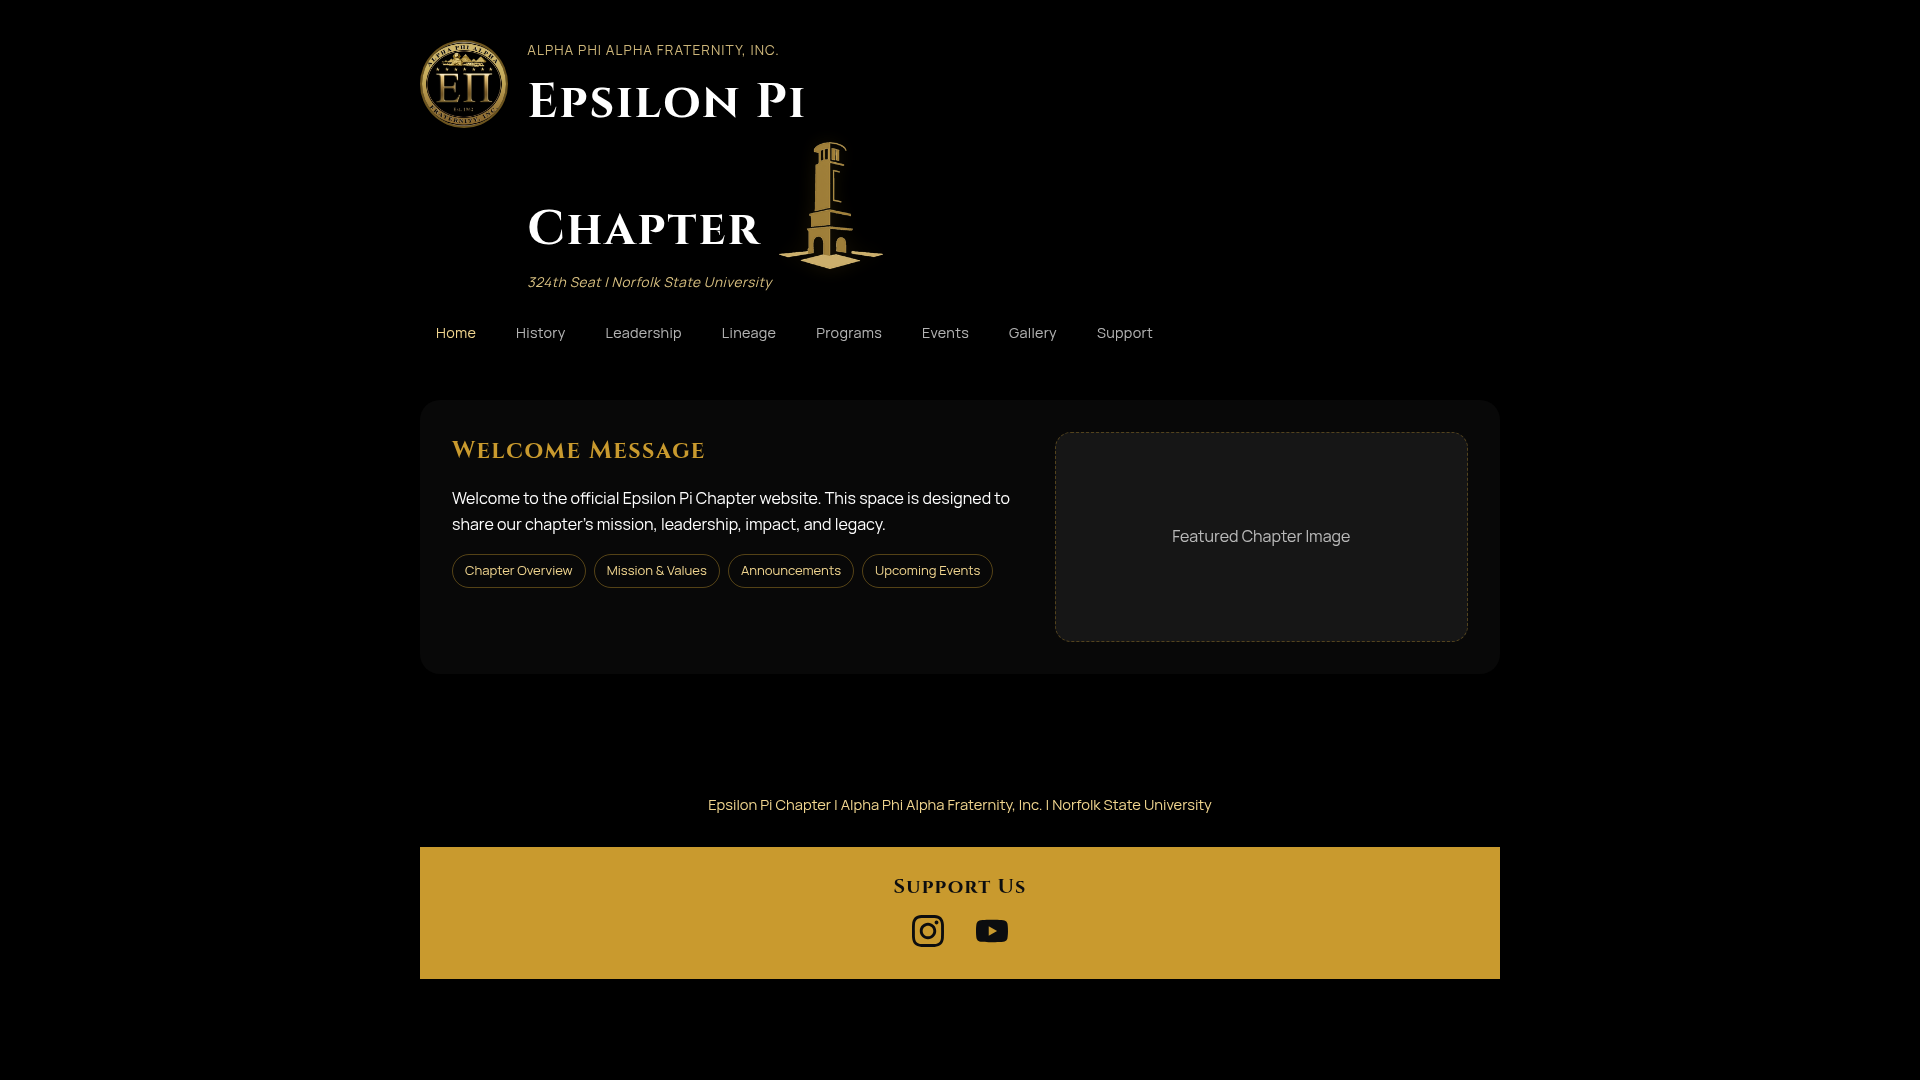
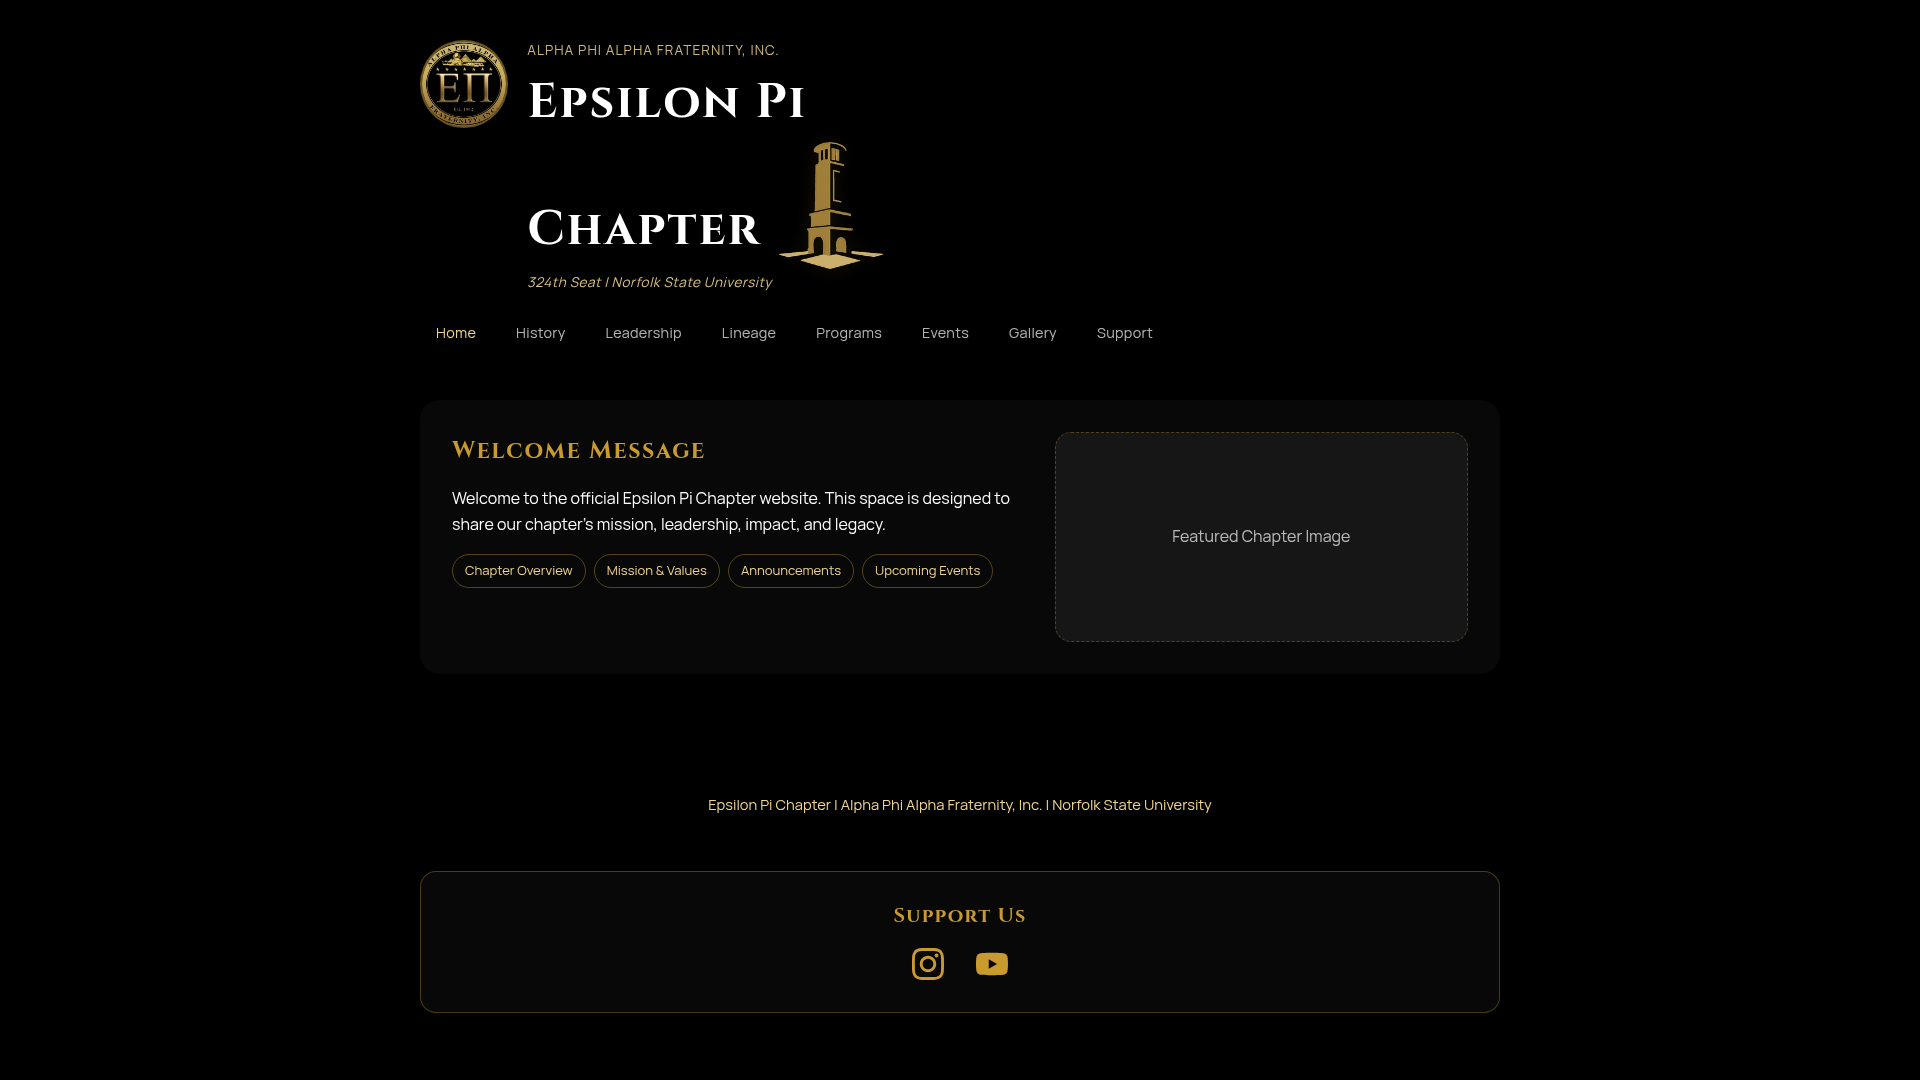
Apply sitewide gold typography to match Awards & Achievements
Original task: promote every section/card heading on the Epsilon Pi
site to use the same brighter saturated gold (#c99a2e), Cinzel,
font-weight 700, and 0.06em letter-spacing as the new "Awards and
Achievements" section, so the whole site reads as one identity.

Changes (epsilon-pi-site/styles.css only):
- .panel h2 — promoted to --gold + bold + 0.06em (was --gold-soft, no
  weight, 0.03em). Covers Home/History/Leadership/Programs/Events/
  Lineage/Support/Gallery in one shot.
- .card h3 — promoted to --gold + bold + 0.06em + 1.25rem, added
  margin-top: 0. Covers Founding Date, Charter Members, Past Event
  Highlights, etc.
- .lineage-item h3 — added Cinzel + --gold + bold + 0.06em + 1.1rem.
- .rap-sheet-name (lineage modal) — promoted to --gold + bold + 0.06em.
- .events-calendar-event h4 — added Cinzel + --gold + bold + 0.06em.
- .support-us footer — converted from gold-bar-with-dark-text to the
  same dark panel + gold heading treatment as the rest of the site
  (panel bg, gold border, --gold title, gold icons). This unifies the
  footer with the sitewide heading system instead of being an inverse
  outlier.
- .eyebrow / .chapter-subtitle — tuned as a deliberate quieter sub-tier:
  eyebrow is uppercase 0.85rem with 0.08em tracking; chapter subtitle
  stays italic with 0.04em tracking. Both keep --gold-soft.

No HTML, content, layout, or behavior changes. Pure visual polish.

Validated via screenshots of every page — all section headings now
[…]

Changed region(s): [[0.2188, 0.7639, 0.7812, 0.9167]]

diff --git a/epsilon-pi-site/styles.css b/epsilon-pi-site/styles.css
@@ -1504,18 +1504,20 @@ main {
 .support-us {
   width: min(100% - 2rem, var(--max-width));
   margin-inline: auto;
-  padding: 1.5rem 0 2rem;
+  padding: 1.75rem 0 2rem;
   text-align: center;
-  background: var(--gold);
-  color: #0c0d0f;
-  margin-top: 0;
+  background: var(--panel);
+  border: 1px solid rgba(201, 154, 46, 0.35);
+  border-radius: 1rem;
+  color: var(--gold-soft);
+  margin-top: 1.5rem;
 }
 
 .support-us-title {
-  margin: 0 0 0.75rem;
+  margin: 0 0 1rem;
   font-family: "Cinzel", Georgia, serif;
   font-size: 1.25rem;
-  color: #0c0d0f;
+  color: var(--gold);
   letter-spacing: 0.06em;
   font-weight: 700;
 }
@@ -1528,7 +1530,7 @@ main {
 }
 
 .support-us-link {
-  color: #0c0d0f;
+  color: var(--gold);
   text-decoration: none;
   display: inline-flex;
   align-items: center;
